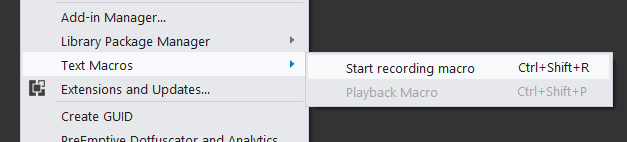
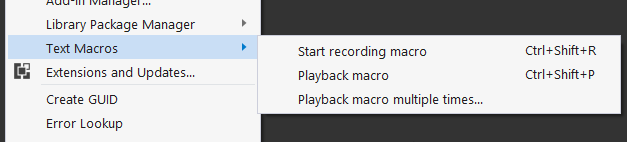
Version 1.4

diff --git a/VSTextMacrosPackage.cs b/VSTextMacrosPackage.cs
@@ -8,7 +8,7 @@ using VSTextMacros.Model;
 namespace VSTextMacros
 {
     [PackageRegistration(UseManagedResourcesOnly = true)]
-    [InstalledProductRegistration("#110", "#112", "1.3", IconResourceID = 400)]
+    [InstalledProductRegistration("#110", "#112", "1.4", IconResourceID = 400)]
     [ProvideMenuResource("Menus.ctmenu", 1)]
     [Guid(GuidList.guidVSTextMacrosPkgString)]
     [ProvideAutoLoad(VSConstants.UICONTEXT.NoSolution_string)]

diff --git a/Properties/AssemblyInfo.cs b/Properties/AssemblyInfo.cs
@@ -28,4 +28,4 @@ using System.Runtime.InteropServices;
 //
 // You can specify all the values or you can default the Revision and Build Numbers 
 // by using the '*' as shown below:
-[assembly: AssemblyVersion("1.3.*")]
+[assembly: AssemblyVersion("1.4.*")]

diff --git a/ReadMe.md b/ReadMe.md
@@ -33,6 +33,7 @@ Look for the following commands:
 
  - Tools.ToggleMacroRecording
  - Tools.PlaybackMacro
+ - Tools.PlaybackMacroMultipleTimes
 
 What can be recorded?
 ===============================
@@ -48,6 +49,10 @@ Currently, here are the commands that can be recorded:
 
 Change Log
 ===============================
+
+**1.4 - Dec 7, 2013**
+
+ - Added menu to repeat macro a given number of times.
 
 **1.3 - Nov 28, 2013**
 
